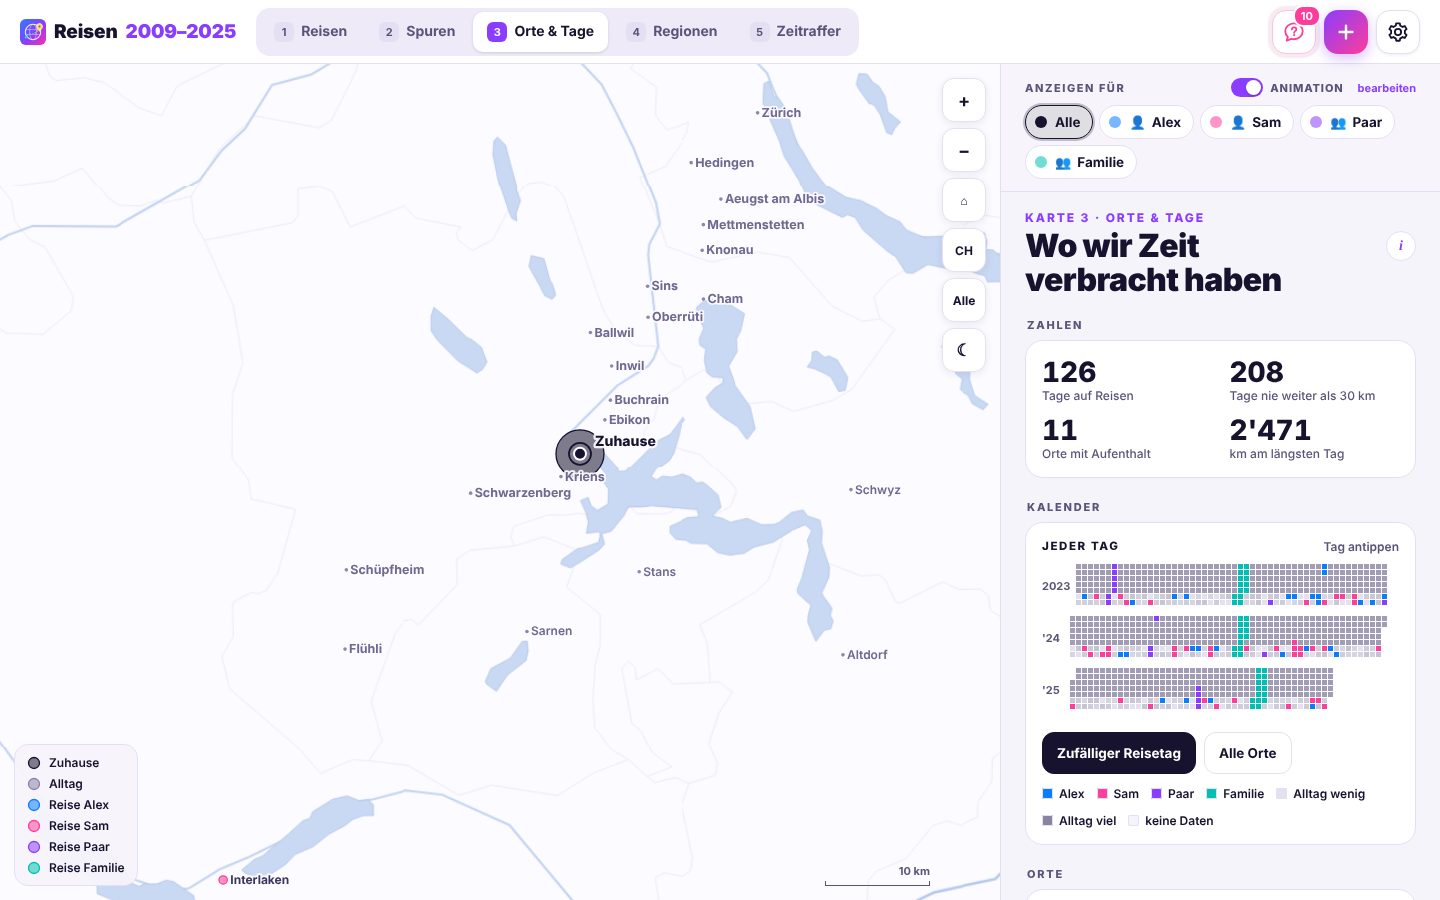
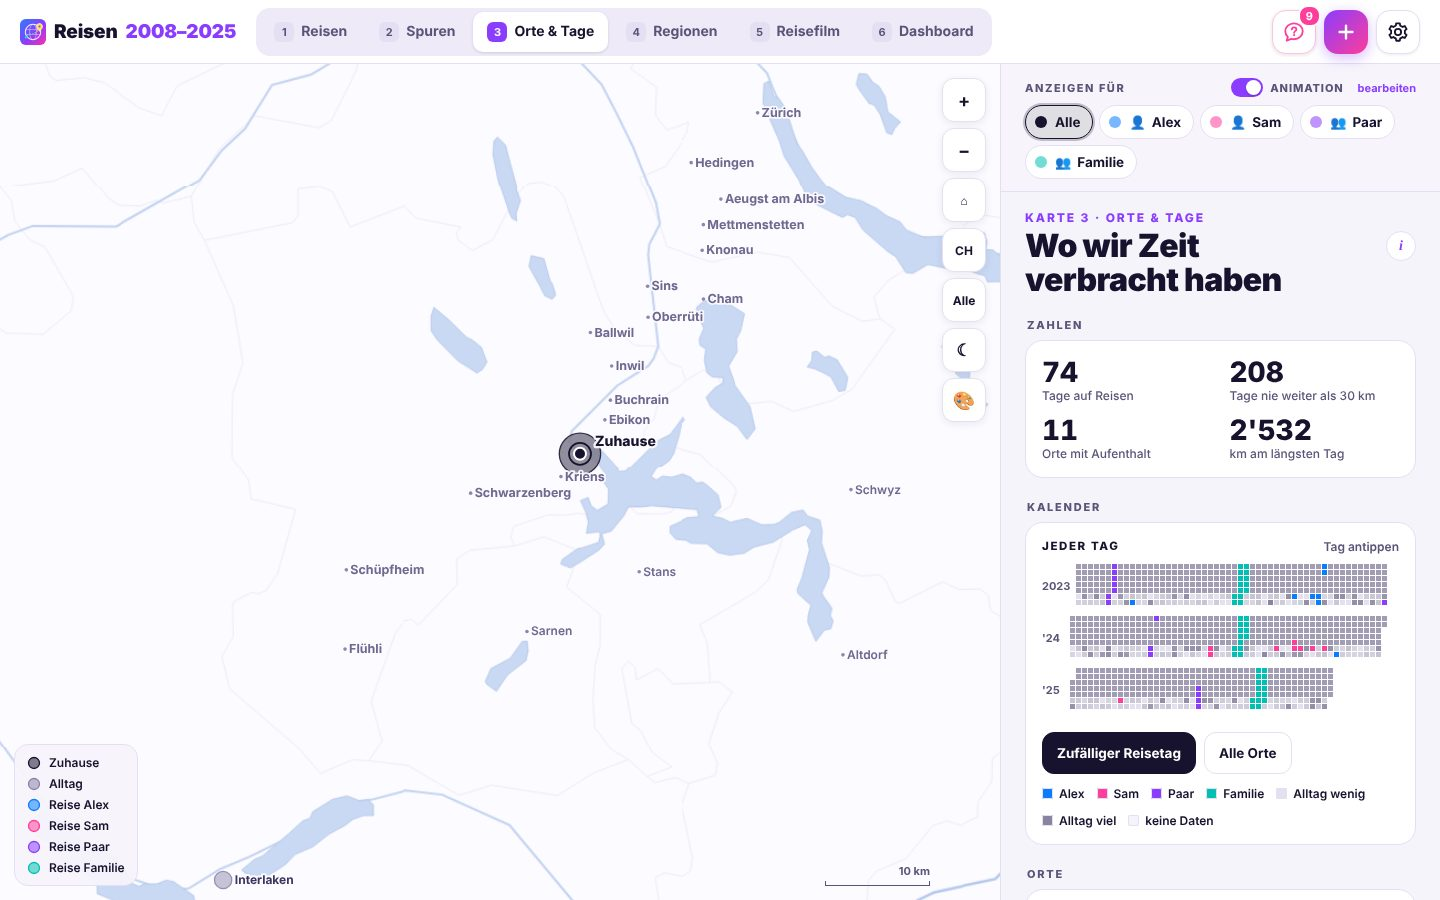
Docs: new screenshots (stations, airport search, estimated routes) and descriptions; demo with seaplane and road trip
Claude-Session: https://claude.ai/code/session_01SNL6TncN9ocQXKuuecCPoZ

diff --git a/tools/demo.py b/tools/demo.py
@@ -152,6 +152,17 @@ def main(out: str) -> None:
                     "reason": "von Hand erfasst", "locked": 1,
                     "legs": legs(("Kiel", "Deutschland", 54.32, 10.14, "Auto"), ("Oslo", "Norwegen", 59.91, 10.75, "Schiff"),
                                  ("Bergen", "Norwegen", 60.39, 5.32, "Auto"))})
+    stops = [{"name": "Malé Velana", "country": "Malediven", "lat": 4.19, "lon": 73.53, "transport": "Flug", "ap": "MLE", "n": 1},
+             {"name": "Baa-Atoll", "country": "Malediven", "lat": 5.12, "lon": 73.07, "transport": "Wasserflugzeug", "n": 9}]
+    db.upsert_trip({"start_date": "2021-11-06", "end_date": "2021-11-16", "destination": "Malediven",
+                    "country": "Malediven", "who": "Paar", "confidence": "bestätigt", "nights": 10, "approx": 0,
+                    "transport": "Flug · Wasserflugzeug", "source": "manual", "reason": "von Hand erfasst", "locked": 1,
+                    "legs": _json.dumps(stops)})
+    db.upsert_trip({"start_date": "2022-07-09", "end_date": "2022-07-23", "destination": "Frankreich-Rundreise",
+                    "country": "Frankreich", "who": "Familie", "confidence": "bestätigt", "nights": 14, "approx": 0,
+                    "transport": "Auto", "source": "manual", "reason": "von Hand erfasst", "locked": 1,
+                    "legs": legs(("Lyon", "Frankreich", 45.76, 4.84, "Auto"), ("Bordeaux", "Frankreich", 44.84, -0.58, "Auto"),
+                                 ("Biarritz", "Frankreich", 43.48, -1.56, "Auto"))})
     db.upsert_trip({"start_date": "2008-08-01", "end_date": "2008-08-20", "destination": "Kenia",
                     "country": "Kenia", "who": "Sam", "confidence": "mittel", "nights": 19, "transport": "Flug",
                     "source": "manual", "reason": "von Hand erfasst", "locked": 1})  # only a country: shows up as "ungenau"

diff --git a/README.de.md b/README.de.md
@@ -16,14 +16,14 @@ auf einer schnellen, schönen Karte mit fünf Ansichten. Alles läuft im Add-on,
 | | |
 |---|---|
 | 🗺 **Fünf Kartenansichten** | **Reisen** (wer war wo und womit, Ziele, Flugbögen, Flächen, die zu einer Form verschmelzen, geschätzte Wege mit Fähren für Reisen ohne GPS), **Spuren** (jeder Weg, gefärbt nach Verkehrsmittel, Jahr oder Person), **Orte & Tage** (wo ihr Zeit verbracht habt, Kalender mit jedem Tag), **Regionen** (Kantone, Bundesländer und Provinzen weltweit) und **Reisefilm** (die Kamera fliegt von Reise zu Reise, jede Route zeichnet sich mit Flugzeug, Zug, Auto oder Fähre, Titelkarten, Jahres-Kapitel und Zähler – auch als Video speicherbar). |
-| 🛤 **Echte Bahn- und Strassenlinien** | Lücken zwischen GPS-Punkten werden auf das echte Bahn- und Strassennetz aus OpenStreetMap gelegt. Das Netz entsteht aus Kartenkacheln, die einmal per Kachelnummer geladen und im Add-on gespeichert werden – es werden nie Positionen gesendet, danach läuft alles offline. Reisen ohne GPS und lange Lücken folgen den Hauptstrassen, Bahnlinien und Fähren eines Offline-Weltnetzes (gerade fliegen nur Flugzeuge); kurze Lücken ohne plausiblen Weg werden fein gepunktet verbunden (einstellbar: gepunktet, gerade, offen). Flüge beginnen und enden am echten Flughafen (OurAirports, offline). |
+| 🛤 **Echte Bahn- und Strassenlinien** | Lücken zwischen GPS-Punkten werden auf das echte Bahn- und Strassennetz aus OpenStreetMap gelegt. Das Netz entsteht aus Kartenkacheln, die einmal per Kachelnummer geladen und im Add-on gespeichert werden – es werden nie Positionen gesendet, danach läuft alles offline. Reisen ohne GPS (von Hand erfasst) bekommen für Auto, Wohnmobil und Bus den **echten Weg von einem Routendienst** – OpenStreetMap (gratis) oder Google, jede Etappe einmal angefragt und gespeichert; nur Start und Ziel, auf ~2 km gerundet, verlassen das Add-on. Ohne Dienst und bei langen Lücken folgen die Linien den Hauptstrassen, Bahnlinien und Fähren eines Offline-Weltnetzes (gerade fliegen nur Flugzeuge); kurze Lücken ohne plausiblen Weg werden fein gepunktet verbunden (einstellbar: gepunktet, gerade, offen). Flüge beginnen und enden am echten Flughafen (OurAirports, offline). |
 | ❓ **Kluge Fragen – ohne KI** | Ähnliche Reisen (gleiche Gegend, gleiche Art Tag, gleicher Vorschlag) kommen als **eine** Frage – eine Antwort für alle. Antworten lassen sich als **Regel** merken, dieselbe Frage kommt nie wieder. Antworten: jede Person und Gruppe, „Keine Reise (Alltag)“, „Mit Reise davor zusammenlegen“, „Einzeln fragen“. Reisen, bei denen nur das Land bekannt ist, bekommen die Frage **„Wo genau?“** – Ort, Insel oder Region eintippen. |
 | 👥 **Personen & Gruppen** | Einzelpersonen und Gruppen (Paar, Familie …) mit Farben. Oben in jeder Karte: alle, eine Person oder eine Gruppe antippen. Zuhause und Arbeit mit Umkreis; die Arbeit erscheint nur auf der Karte, wenn du es einschaltest. |
-| 📋 **Reiseliste wie in Excel** | Jede Reise hat einen **Namen** und ihre **Stationen** – Orte oder Flughäfen der Reihe nach, jede mit eigenem Verkehrsmittel (Auto, Zug, Bus, Flug, Wasserflugzeug, Schiff, Wohnmobil, Velo, zu Fuss); Länder und Verkehrsmittel ergeben sich aus den Stationen. In den Einstellungen: Filter pro Spalte, sortieren, Zellen direkt bearbeiten, Zeilen löschen, Zeilen direkt aus Excel oder Google Sheets einfügen (Strg+V). Doppelte werden erkannt. |
+| 📋 **Reiseliste wie in Excel** | Jede Reise hat einen **Namen** und ihre **Stationen** – Orte oder Flughäfen der Reihe nach, jede mit eigenem Verkehrsmittel (Auto, Zug, Bus, Flug, Wasserflugzeug, Schiff, Wohnmobil, Velo, zu Fuss); Länder und Verkehrsmittel ergeben sich aus den Stationen. In den Einstellungen: Filter pro Spalte, sortieren (neueste oder älteste, km, Nächte, Name, Land, Person – leere Werte zuletzt), Zellen direkt bearbeiten, Zeilen löschen, Zeilen direkt aus Excel oder Google Sheets einfügen (Strg+V). Doppelte werden erkannt. |
 | 💾 **Alles in einer Datei** | Das *Worldmap-Paket* enthält alle Reisen mit „Wer war dabei“ und alle GPS-Positionen mit Person – als Sicherung herunterladen und überall wieder importieren. |
 | 📥 **Alles importieren** | Reiselisten (CSV/Excel mit Von, Bis, Name oder Ziel, Stationen …) – die Ziele landen automatisch auf der Karte –, Google-Zeitachse (Takeout und Export vom Handy, Android und iPhone), iCloud-/exiftool-Foto-CSV, jede CSV/Excel mit Koordinaten, GPX, KML. Aufgezeichnete Reisen (Google-Zeitachse, OwnTracks, Home Assistant, Fotos, GPX) bekommen ihre Stationen aus den Orten, an denen ihr übernachtet habt, mit dem Verkehrsmittel aus den Daten – ein Flug landet am echten Flughafen. Eine Vorschau zeigt, was gefunden wurde; Vorhandenes wird nicht doppelt gespeichert. |
 | 📡 **Live ohne Cloud** | Positionen aus `person.*`- / `device_tracker.*`-Entitäten und ein eingebauter **OwnTracks**-Empfang: das Handy sammelt unterwegs und schickt alles, sobald es wieder im Heimnetz ist – ohne Nabu Casa, ohne offenen Port ins Internet. |
-| ✍ **Reisen von Hand** | Der „+“-Knopf fragt kurz nach (Name und Stationen, wann, wie lange, wer, wie gross war die Gegend) – für alte Reisen ohne Daten, überall auf der Welt. Mehrere Stationen mit eigenem Verkehrsmittel, beliebig sortierbar (nach oben und unten schieben) (Flug nach Teneriffa, Schiff nach La Gomera); eine Station kann auch ein **Flughafen** sein – Suche nach Stadt, Flughafen-Name oder Code („Dubai“ → DXB, DWC; „Male Flughafen“ → MLE), das Flugzeug landet genau dort und die nächste Station startet von dort, und „Abflug ab“ wählt einen anderen als deinen Heimatflughafen; Orte aus der eingebauten Liste, aus OpenStreetMap, Google Maps oder einem eingefügten Google-Maps-Link. Autos folgen Autobahnen, Züge Bahnlinien, Schiffe dem Meer. Ungenaue Reisen (nur ein Land) sind in der Reiseliste markiert. |
+| ✍ **Reisen von Hand** | Der „+“-Knopf fragt kurz nach (Name und Stationen, wann, wie lange, wer, wie gross war die Gegend) – für alte Reisen ohne Daten, überall auf der Welt. Mehrere Stationen mit eigenem Verkehrsmittel, beliebig sortierbar (nach oben und unten schieben) (Flug nach Teneriffa, Schiff nach La Gomera; Flug nach Malé, **Wasserflugzeug** zum Atoll – es fliegt direkt von der vorherigen Station); eine Station kann auch ein **Flughafen** sein – Suche nach Stadt, Flughafen-Name oder Code („Dubai“ → DXB, DWC; „Male Flughafen“ → MLE), das Flugzeug landet genau dort und die nächste Station startet von dort, und „Abflug ab“ wählt einen anderen als deinen Heimatflughafen; Orte aus der eingebauten Liste, aus OpenStreetMap, Google Maps oder einem eingefügten Google-Maps-Link. Autos folgen den echten Strassen (Routendienst), Züge Bahnlinien, Schiffe dem Meer. Ungenaue Reisen (nur ein Land) sind in der Reiseliste markiert. |
 | 📊 **Dashboard** | Die Reisen als Zahlen und kleine Bilder statt als Karte: Kennzahlen, um die Erde (und zum Mond), Rekorde, ein Länder-Pass mit Stempeln, eine Postkarte pro Reise mit Route und Stationen, ein Kalender der Reisetage, ein Zeitstrahl mit einer Spur pro Person, ein Reise-Rad (wann im Jahr und womit), Lieblingsorte, km und geschätztes CO₂ pro Jahr und „weisse Flecken“ (wie viele Regionen pro Land ihr kennt). Fünf fertige Dashboards – **Übersicht, Jahresrückblick, Familie, Entdecker, Wandtablet** (grosse Schrift, die Postkarte wechselt alle 15 Sekunden) – oder eine eigene Auswahl der Kacheln. Jede Kachel hat eine ⓘ-Erklärung und folgt der Personen-/Gruppen-Leiste. |
 | 🔔 **Benachrichtigungen** | Eines deiner Handys wählen (wird automatisch gefunden) oder Hinweis in Home Assistant, wie oft (sofort, täglich, wöchentlich), Test senden. |
 | ✨ **Animierte Karte** | Kleine Flugzeuge in der Farbe der Reise fliegen die Flugbögen ab, Züge und Autos fahren Reisen ins Ausland nach. Ein Schalter auf jeder Karte, flüssige 60 fps. |
@@ -38,6 +38,10 @@ auf einer schnellen, schönen Karte mit fünf Ansichten. Alles läuft im Add-on,
 | Personen & Gruppen | Fragen | Reiseliste |
 |---|---|---|
 | ![Personen](docs/images/people.jpg) | ![Fragen](docs/images/questions.jpg) | ![Reiseliste](docs/images/trips.jpg) |
+
+| Stationen mit Flughafen und Wasserflugzeug | Reise von Hand: Flughafen per Stadt finden | Geschätzte Routen (Routendienst) |
+|---|---|---|
+| ![Stationen](docs/images/stations.jpg) | ![Reise von Hand](docs/images/wiz.jpg) | ![Verbindungen](docs/images/connectors.jpg) |
 
 ![Dashboard](docs/images/dashboard.jpg)
 

diff --git a/README.md b/README.md
@@ -16,14 +16,14 @@ fast, good-looking map with five views. Everything runs inside the add-on; no cl
 | | |
 |---|---|
 | 🗺 **Five map views** | **Trips** (who went where and how, destinations, flight arcs, areas that melt together, estimated routes with ferries for trips without GPS), **Tracks** (every route, coloured by transport, year or person), **Places & days** (where you spent time, a calendar of every day), **Regions** (states, provinces and cantons worldwide) and **Travel film** (the camera flies from trip to trip, each route draws itself with its plane, train, car or ferry, title cards, year chapters and counters – can be saved as a video). |
-| 🛤 **Real rail and road lines** | Gaps between GPS points are map-matched onto the real rail and road network from OpenStreetMap. The network is built from map tiles that are downloaded once by tile number and kept in the add-on – no positions are ever sent, afterwards it works offline. Trips without GPS and long gaps follow the main roads, railways and ferries of an offline world network (only planes fly straight); short gaps without a plausible path are joined by a fine dotted line (adjustable: dotted, straight, open). Flights start and end at the real airport (OurAirports, offline). |
+| 🛤 **Real rail and road lines** | Gaps between GPS points are map-matched onto the real rail and road network from OpenStreetMap. The network is built from map tiles that are downloaded once by tile number and kept in the add-on – no positions are ever sent, afterwards it works offline. Trips without GPS (entered by hand) get the **real way from a routing service** for car, camper and bus – OpenStreetMap (free) or Google, each leg asked once and stored; only start and end, rounded to ~2 km, leave the add-on. Without a service and for long gaps the lines follow the main roads, railways and ferries of an offline world network (only planes fly straight); short gaps without a plausible path are joined by a fine dotted line (adjustable: dotted, straight, open). Flights start and end at the real airport (OurAirports, offline). |
 | ❓ **Smart questions – no AI needed** | Similar trips (same area, same kind of day, same suggestion) are asked **once** – one answer for all. Answers can be remembered as **rules**, so the same question never comes again. Answers: every person and group, "no trip (everyday life)", "merge with the trip before", "ask one by one". Trips where only the country is known get a **"where exactly?"** question – type a town, island or region. |
 | 👥 **People & groups** | Single persons and groups (couple, family …) with colours. A bar on top of every map shows everyone, one person or one group. Home and work with radius; the workplace is hidden on the map unless you switch it on. |
-| 📋 **Excel-style trip list** | Every trip has a **name** and its **stations** – places or airports in order, each with its own transport (car, train, bus, plane, seaplane, ship, camper, bike, on foot); countries and transport come from the stations. In the settings: filter per column, sort, edit cells in place, delete rows, paste rows straight from Excel or Google Sheets (Ctrl+V). Duplicates are detected. |
+| 📋 **Excel-style trip list** | Every trip has a **name** and its **stations** – places or airports in order, each with its own transport (car, train, bus, plane, seaplane, ship, camper, bike, on foot); countries and transport come from the stations. In the settings: filter per column, sort (newest or oldest, km, nights, name, country, person – empty values last), edit cells in place, delete rows, paste rows straight from Excel or Google Sheets (Ctrl+V). Duplicates are detected. |
 | 💾 **Everything in one file** | The *Worldmap package* holds all trips with who was there and all GPS points with their person – download it as a backup and import it anywhere. |
 | 📥 **Import anything** | Trip lists (CSV/Excel with From, To, Name or Destination, Stations …) – destinations are placed on the map automatically – Google Timeline (Takeout and the on-device export for Android and iPhone), iCloud/exiftool photo CSV, any CSV/Excel with coordinates, GPX, KML. Recorded trips (Google Timeline, OwnTracks, Home Assistant, photos, GPX) get their stations from the places where you slept, with the transport found on the way – a flight lands at the real airport. A preview shows what was found before anything is saved; data that is already there is not stored twice. |
 | 📡 **Live without cloud** | Positions from `person.*` / `device_tracker.*` entities and a built-in **OwnTracks** endpoint: the phone buffers positions while you are away and sends them when it is back in your home network – no Nabu Casa, no port opened to the internet. |
-| ✍ **Trips by hand** | The "+" button asks a few questions (name and stations, when, how long, who, how big was the area) – for old trips without any data, anywhere in the world. Several stops with their own transport, in any order (move them up and down) (plane to Tenerife, ship to La Gomera); a stop can also be an **airport** – search by town, airport name or code ("Dubai" → DXB, DWC; "Male Flughafen" → MLE), the plane lands exactly there and the next stop starts from there, and "departure from" picks another airport than your home one; places come from the built-in list, OpenStreetMap, Google Maps or a pasted Google Maps link. Cars follow motorways, trains railways, ships the sea. Vague trips (only a country) are marked in the trip list. |
+| ✍ **Trips by hand** | The "+" button asks a few questions (name and stations, when, how long, who, how big was the area) – for old trips without any data, anywhere in the world. Several stops with their own transport, in any order (move them up and down) (plane to Tenerife, ship to La Gomera; plane to Malé, **seaplane** to the atoll – it flies straight from the stop before); a stop can also be an **airport** – search by town, airport name or code ("Dubai" → DXB, DWC; "Male Flughafen" → MLE), the plane lands exactly there and the next stop starts from there, and "departure from" picks another airport than your home one; places come from the built-in list, OpenStreetMap, Google Maps or a pasted Google Maps link. Cars follow the real roads (routing service), trains railways, ships the sea. Vague trips (only a country) are marked in the trip list. |
 | 📊 **Dashboard** | The trips as numbers and small pictures instead of a map: key figures, around the world (and to the moon), records, a country passport with stamps, a postcard per trip with its route and stops, a calendar of travel days, a timeline with one lane per person, a travel wheel (when in the year and how), favourite places, km and estimated CO₂ per year, and "white spots" (how many regions of each country you know). Five ready-made dashboards – **Overview, Year in review, Family, Explorer, Wall tablet** (big type, the postcard changes every 15 seconds) – or your own choice of tiles. Every tile has an ⓘ explanation and follows the person/group bar. |
 | 🔔 **Notifications** | Choose one of your phones (found automatically) or a Home Assistant notification, how often (instant, daily, weekly) and send a test. |
 | ✨ **Animated map** | Little planes in the colour of the trip fly the flight arcs, trains and cars travel trips abroad. One switch on every map, smooth 60 fps. |
@@ -38,6 +38,10 @@ fast, good-looking map with five views. Everything runs inside the add-on; no cl
 | People & groups | Questions | Trip list |
 |---|---|---|
 | ![People](docs/images/people.jpg) | ![Questions](docs/images/questions.jpg) | ![Trip list](docs/images/trips.jpg) |
+
+| Stations with airport and seaplane | Trip by hand: find an airport by town | Estimated routes (routing service) |
+|---|---|---|
+| ![Stations](docs/images/stations.jpg) | ![Trip by hand](docs/images/wiz.jpg) | ![Connections](docs/images/connectors.jpg) |
 
 ![Dashboard](docs/images/dashboard.jpg)
 

diff --git a/NEXT.md b/NEXT.md
@@ -64,6 +64,13 @@ Ideen werden zuerst hier gesammelt. Code entsteht erst nach einem ausdrückliche
 
 ## Next update – waiting for "mach es" / Nächstes Update – wartet auf „mach es“
 
+### Found while taking the README screenshots (waiting for "mach es")
+- [ ] Trip list: the km column is empty for trips entered by hand (e.g. a round trip with stations), so they sort last
+      with "km absteigend" – the dashboard already knows their km.
+- [ ] Regions map: a trip entered by hand far away (Australia, 2017) is coloured like the first year of the GPS data
+      (2023) instead of its own year; check which regions the stations of hand trips count.
+- [ ] Stations popup: on a narrow row the × (remove) button wraps to its own line.
+
 ### Real routes for trips entered by hand (done in 0.13.0)
 - [x] Car / camper / bus legs of trips without GPS asked once from a routing service, stored, dashed estimate
 - [x] Option `route_service`: `osm` (FOSSGIS, default), `google` (Routes API), `offline`; fallback to the built-in network
